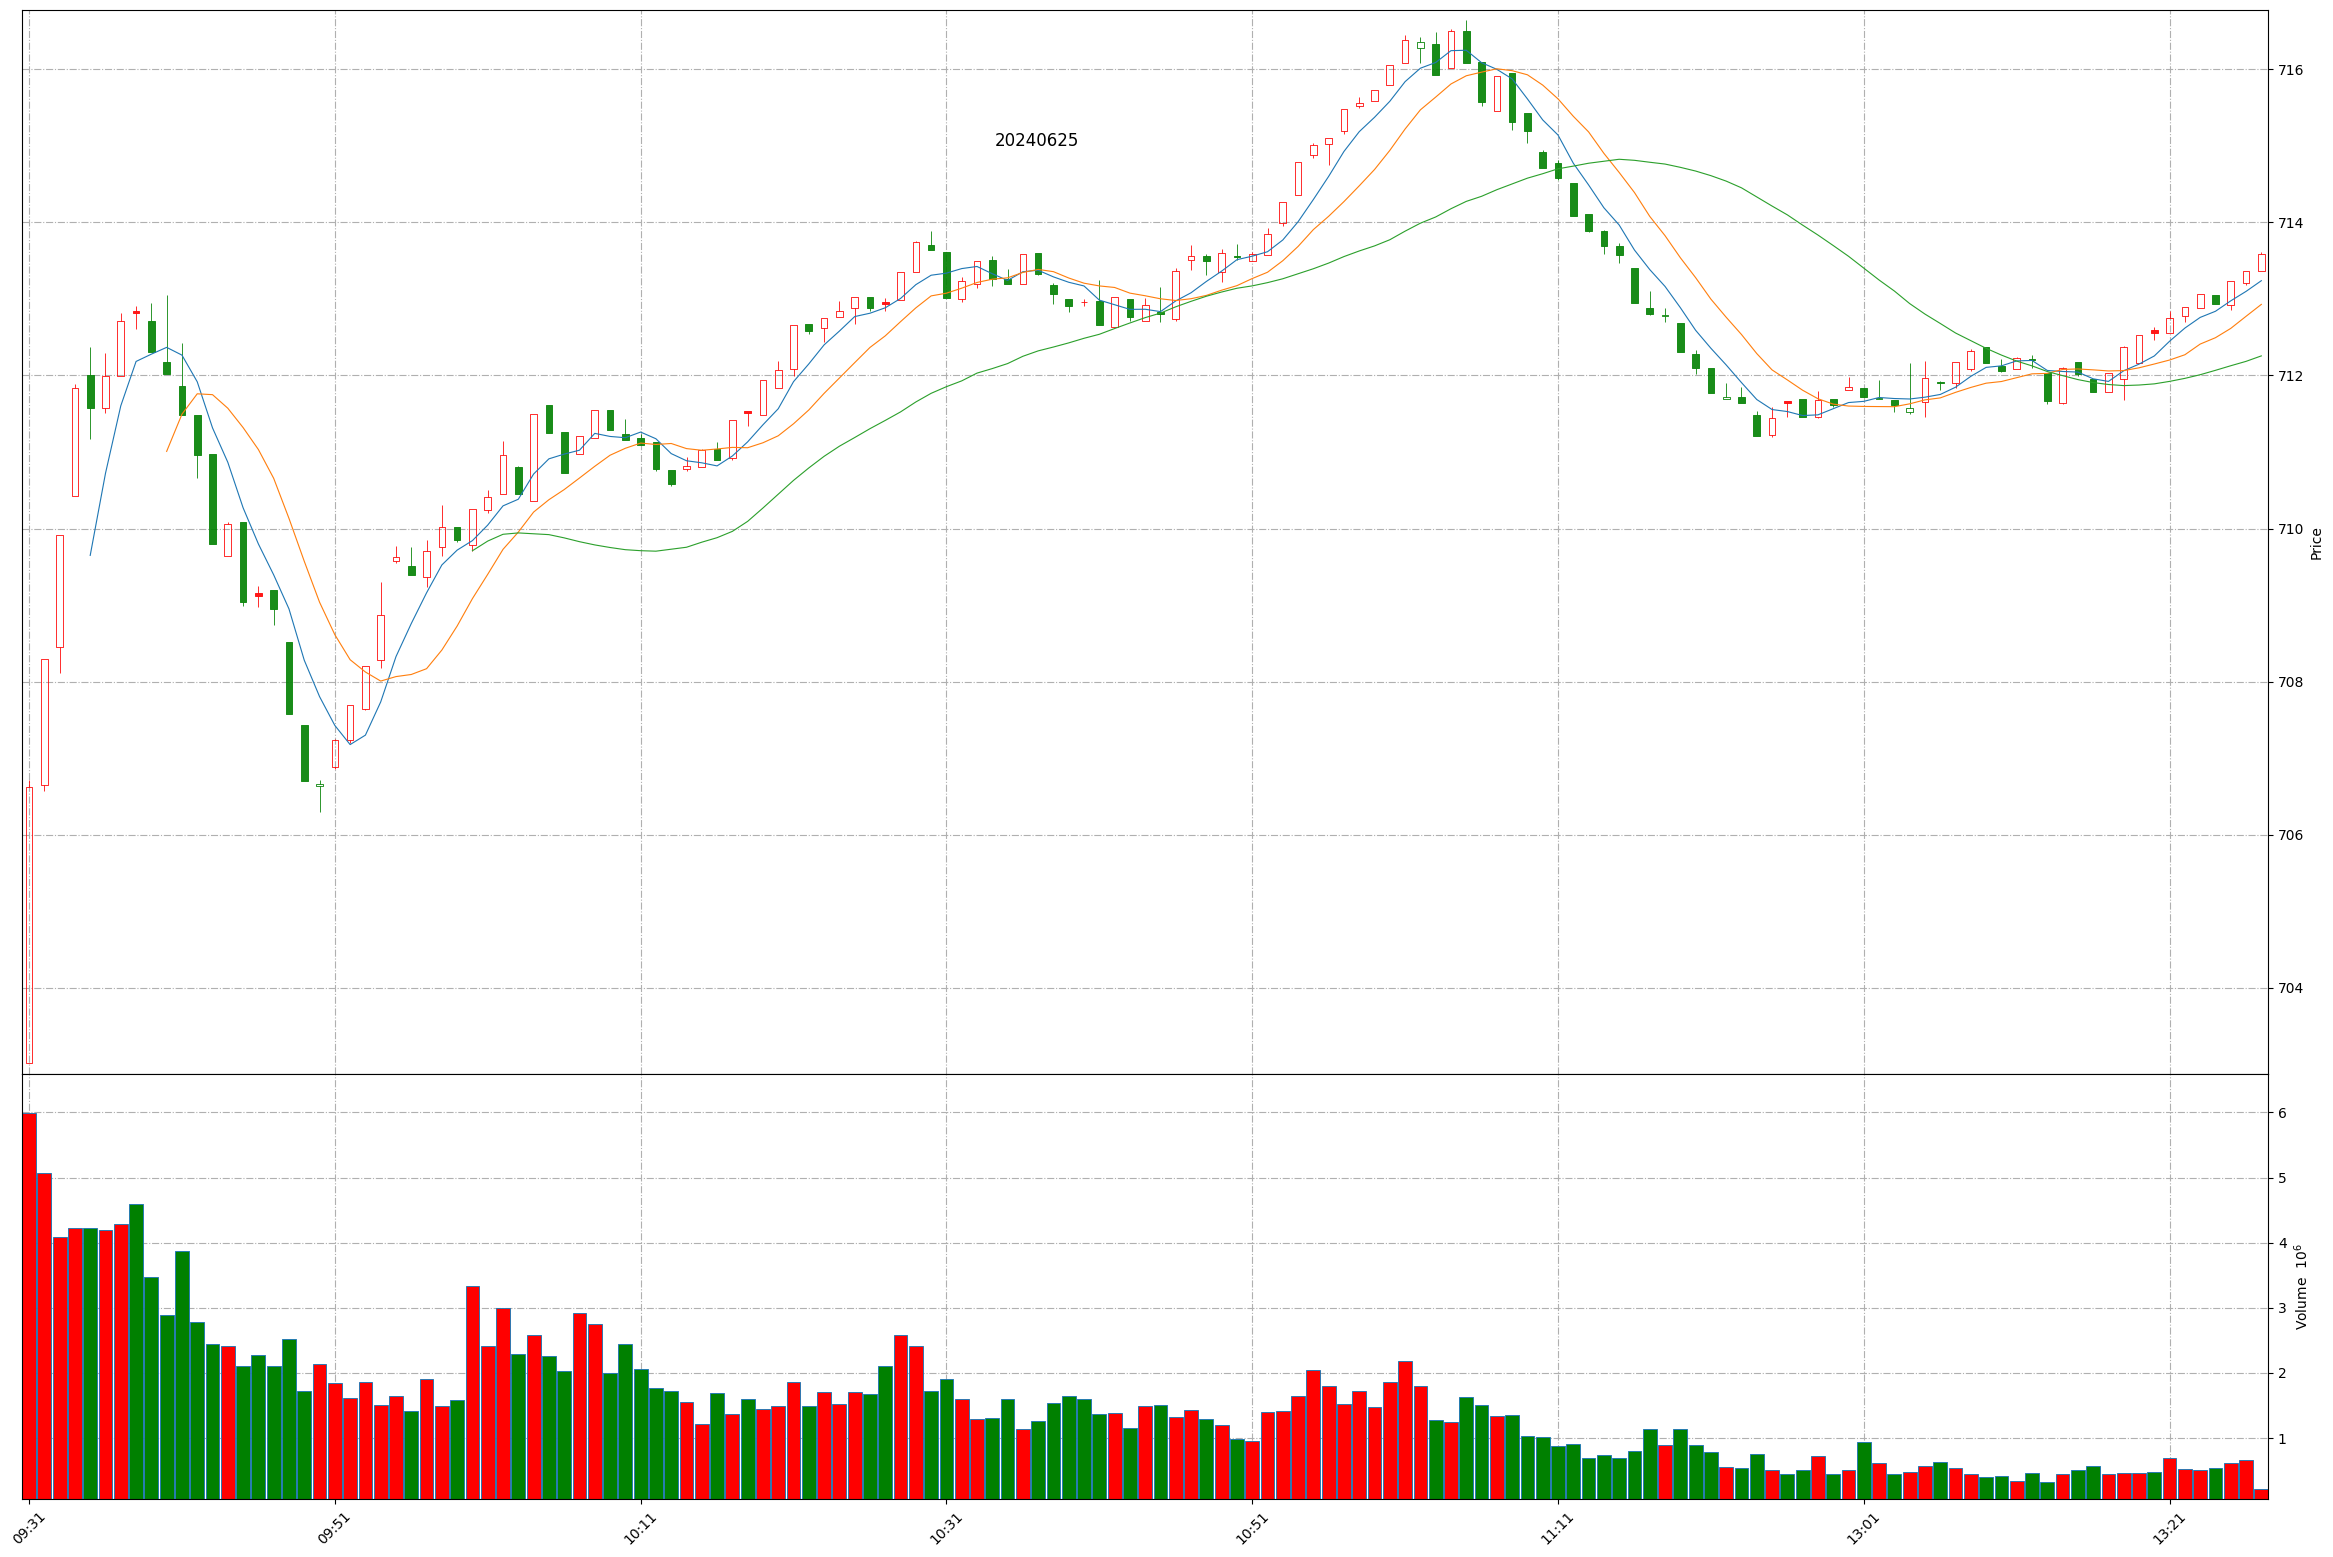
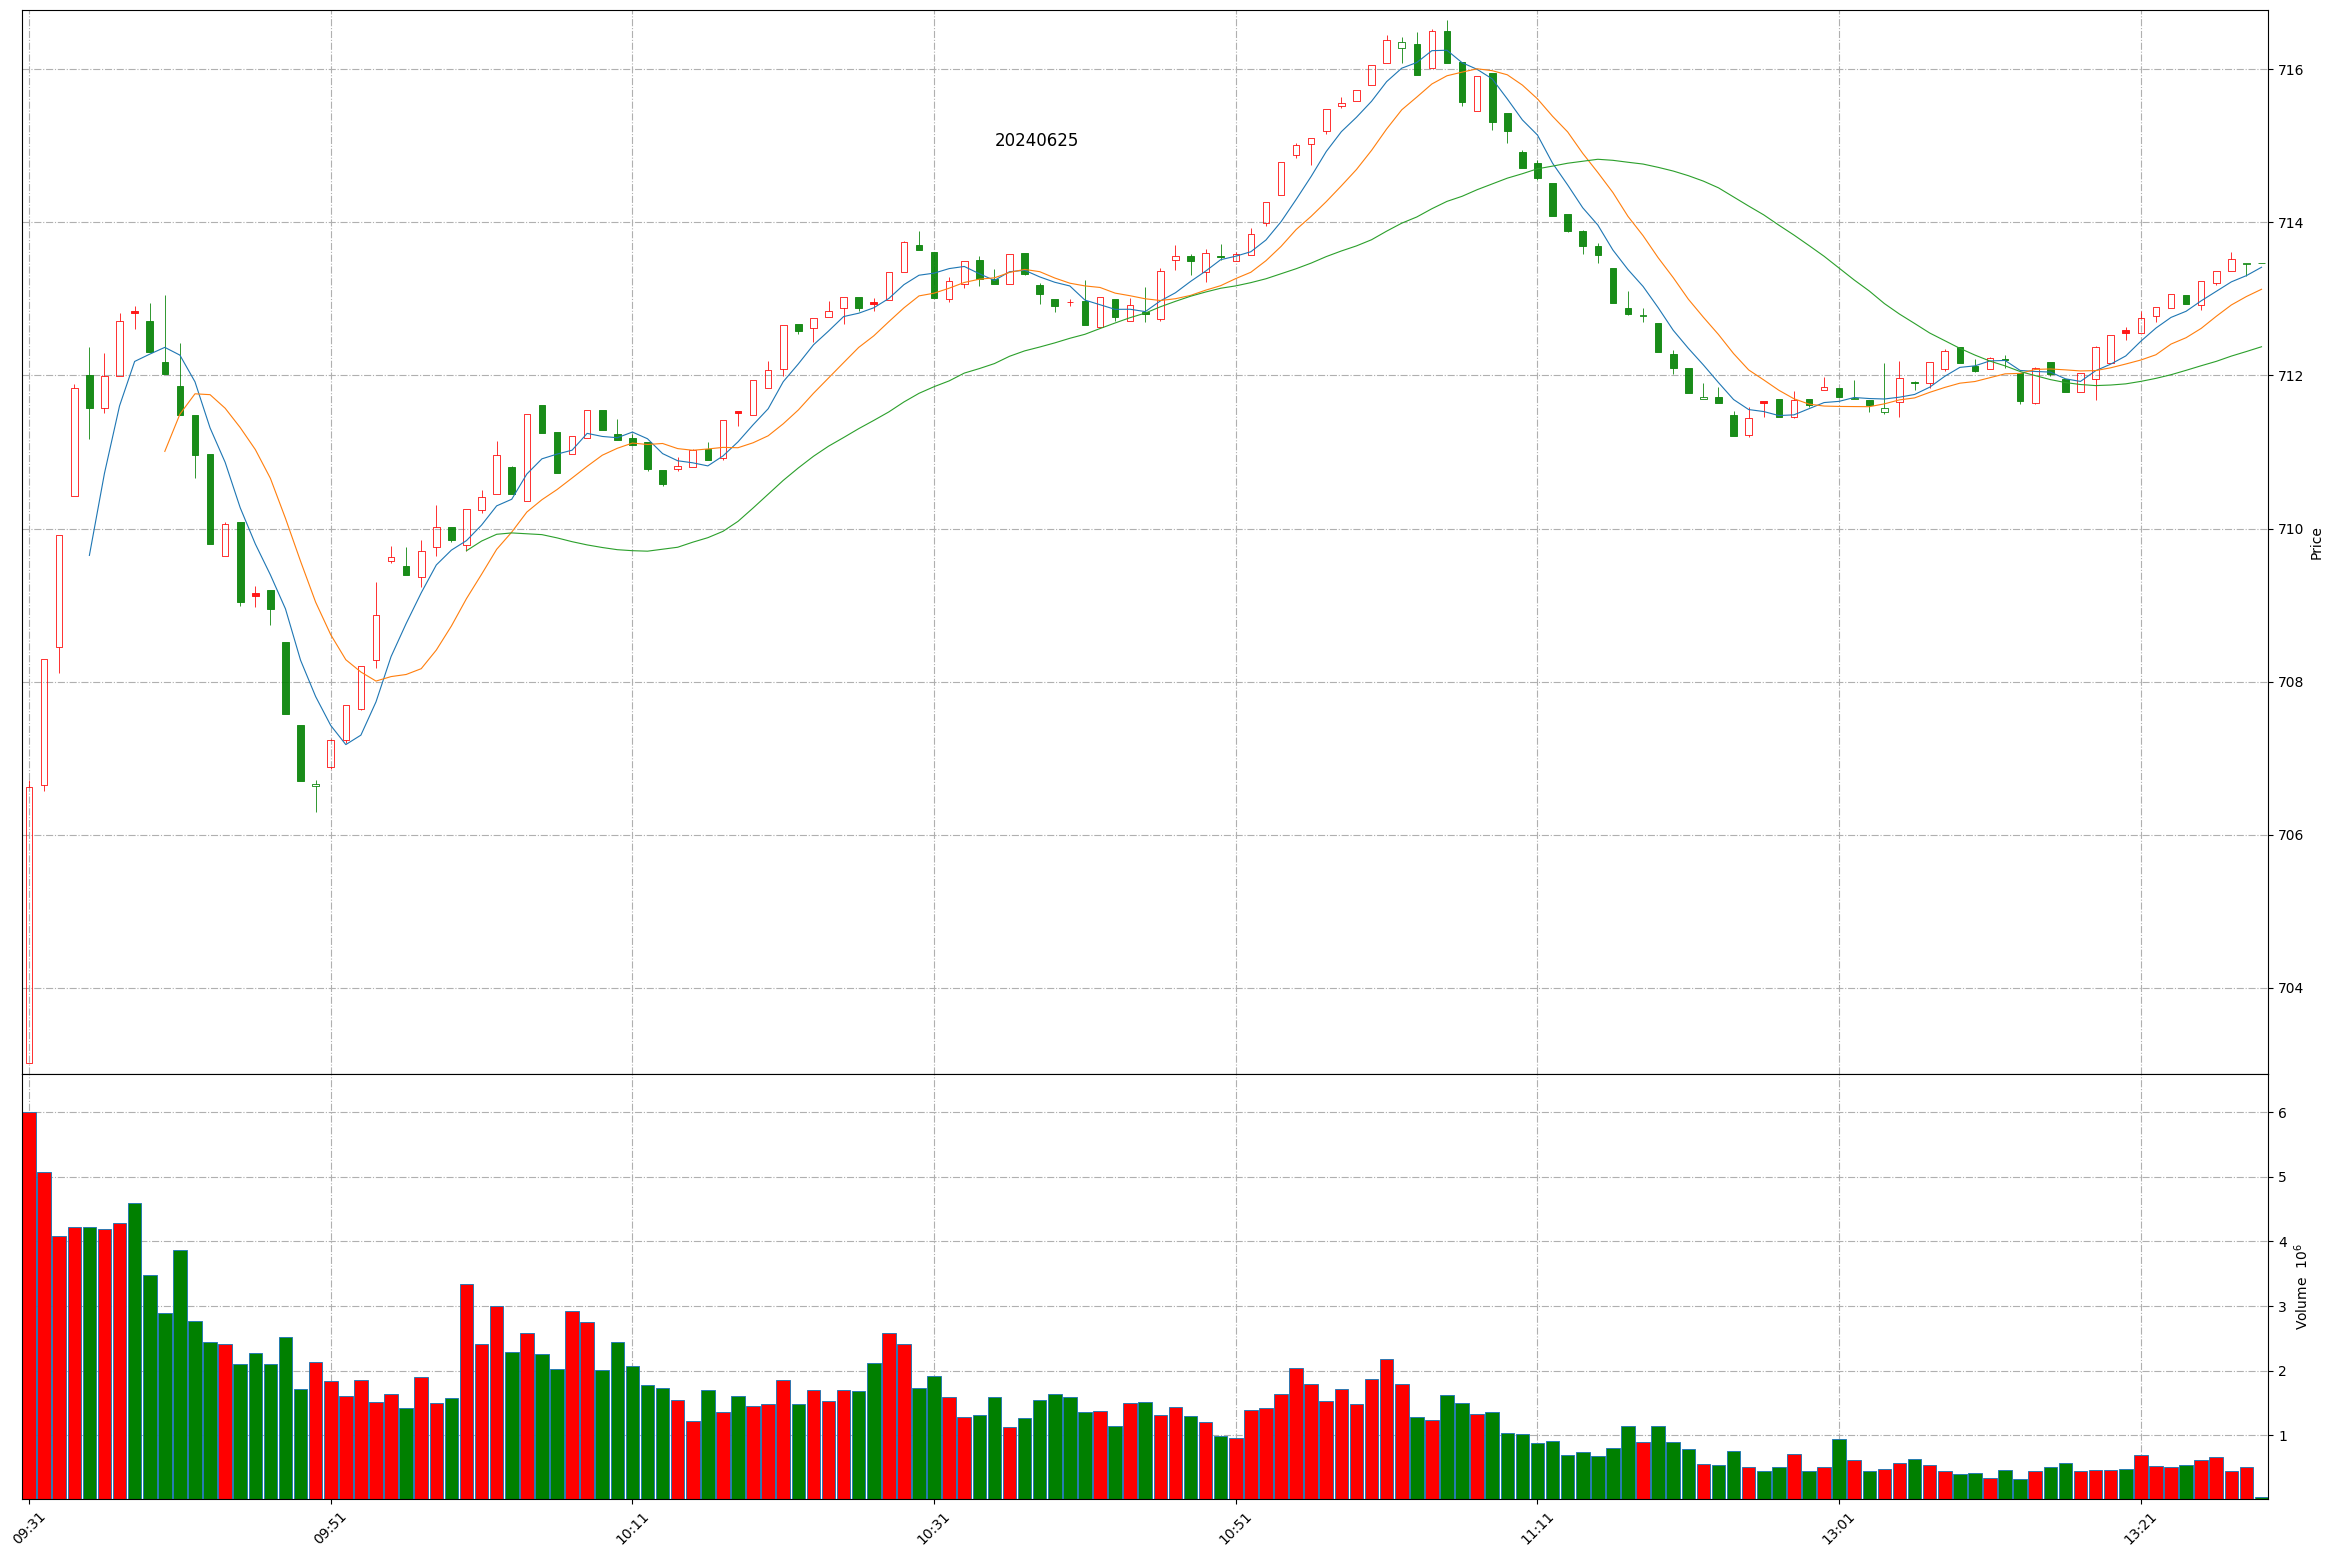
Github action update at 2024-06-25 13:28:17.

diff --git a/README.md b/README.md
@@ -1,11 +1,11 @@
 
 # Daily-A-share-market-quotes 每日 A 股指数（5min 更新）- 20240625
 
-### 上证指数 20240625 13:26
+### 上证指数 20240625 13:28
 ![](./fig/2024/6/20240625-sh000001.png)
 
-### 深证成指 20240625 13:26
+### 深证成指 20240625 13:28
 ![](./fig/2024/6/20240625-sz399001.png)
 
-### 北证50 20240625 13:26
+### 北证50 20240625 13:28
 ![](./fig/2024/6/20240625-bj899050.png)
